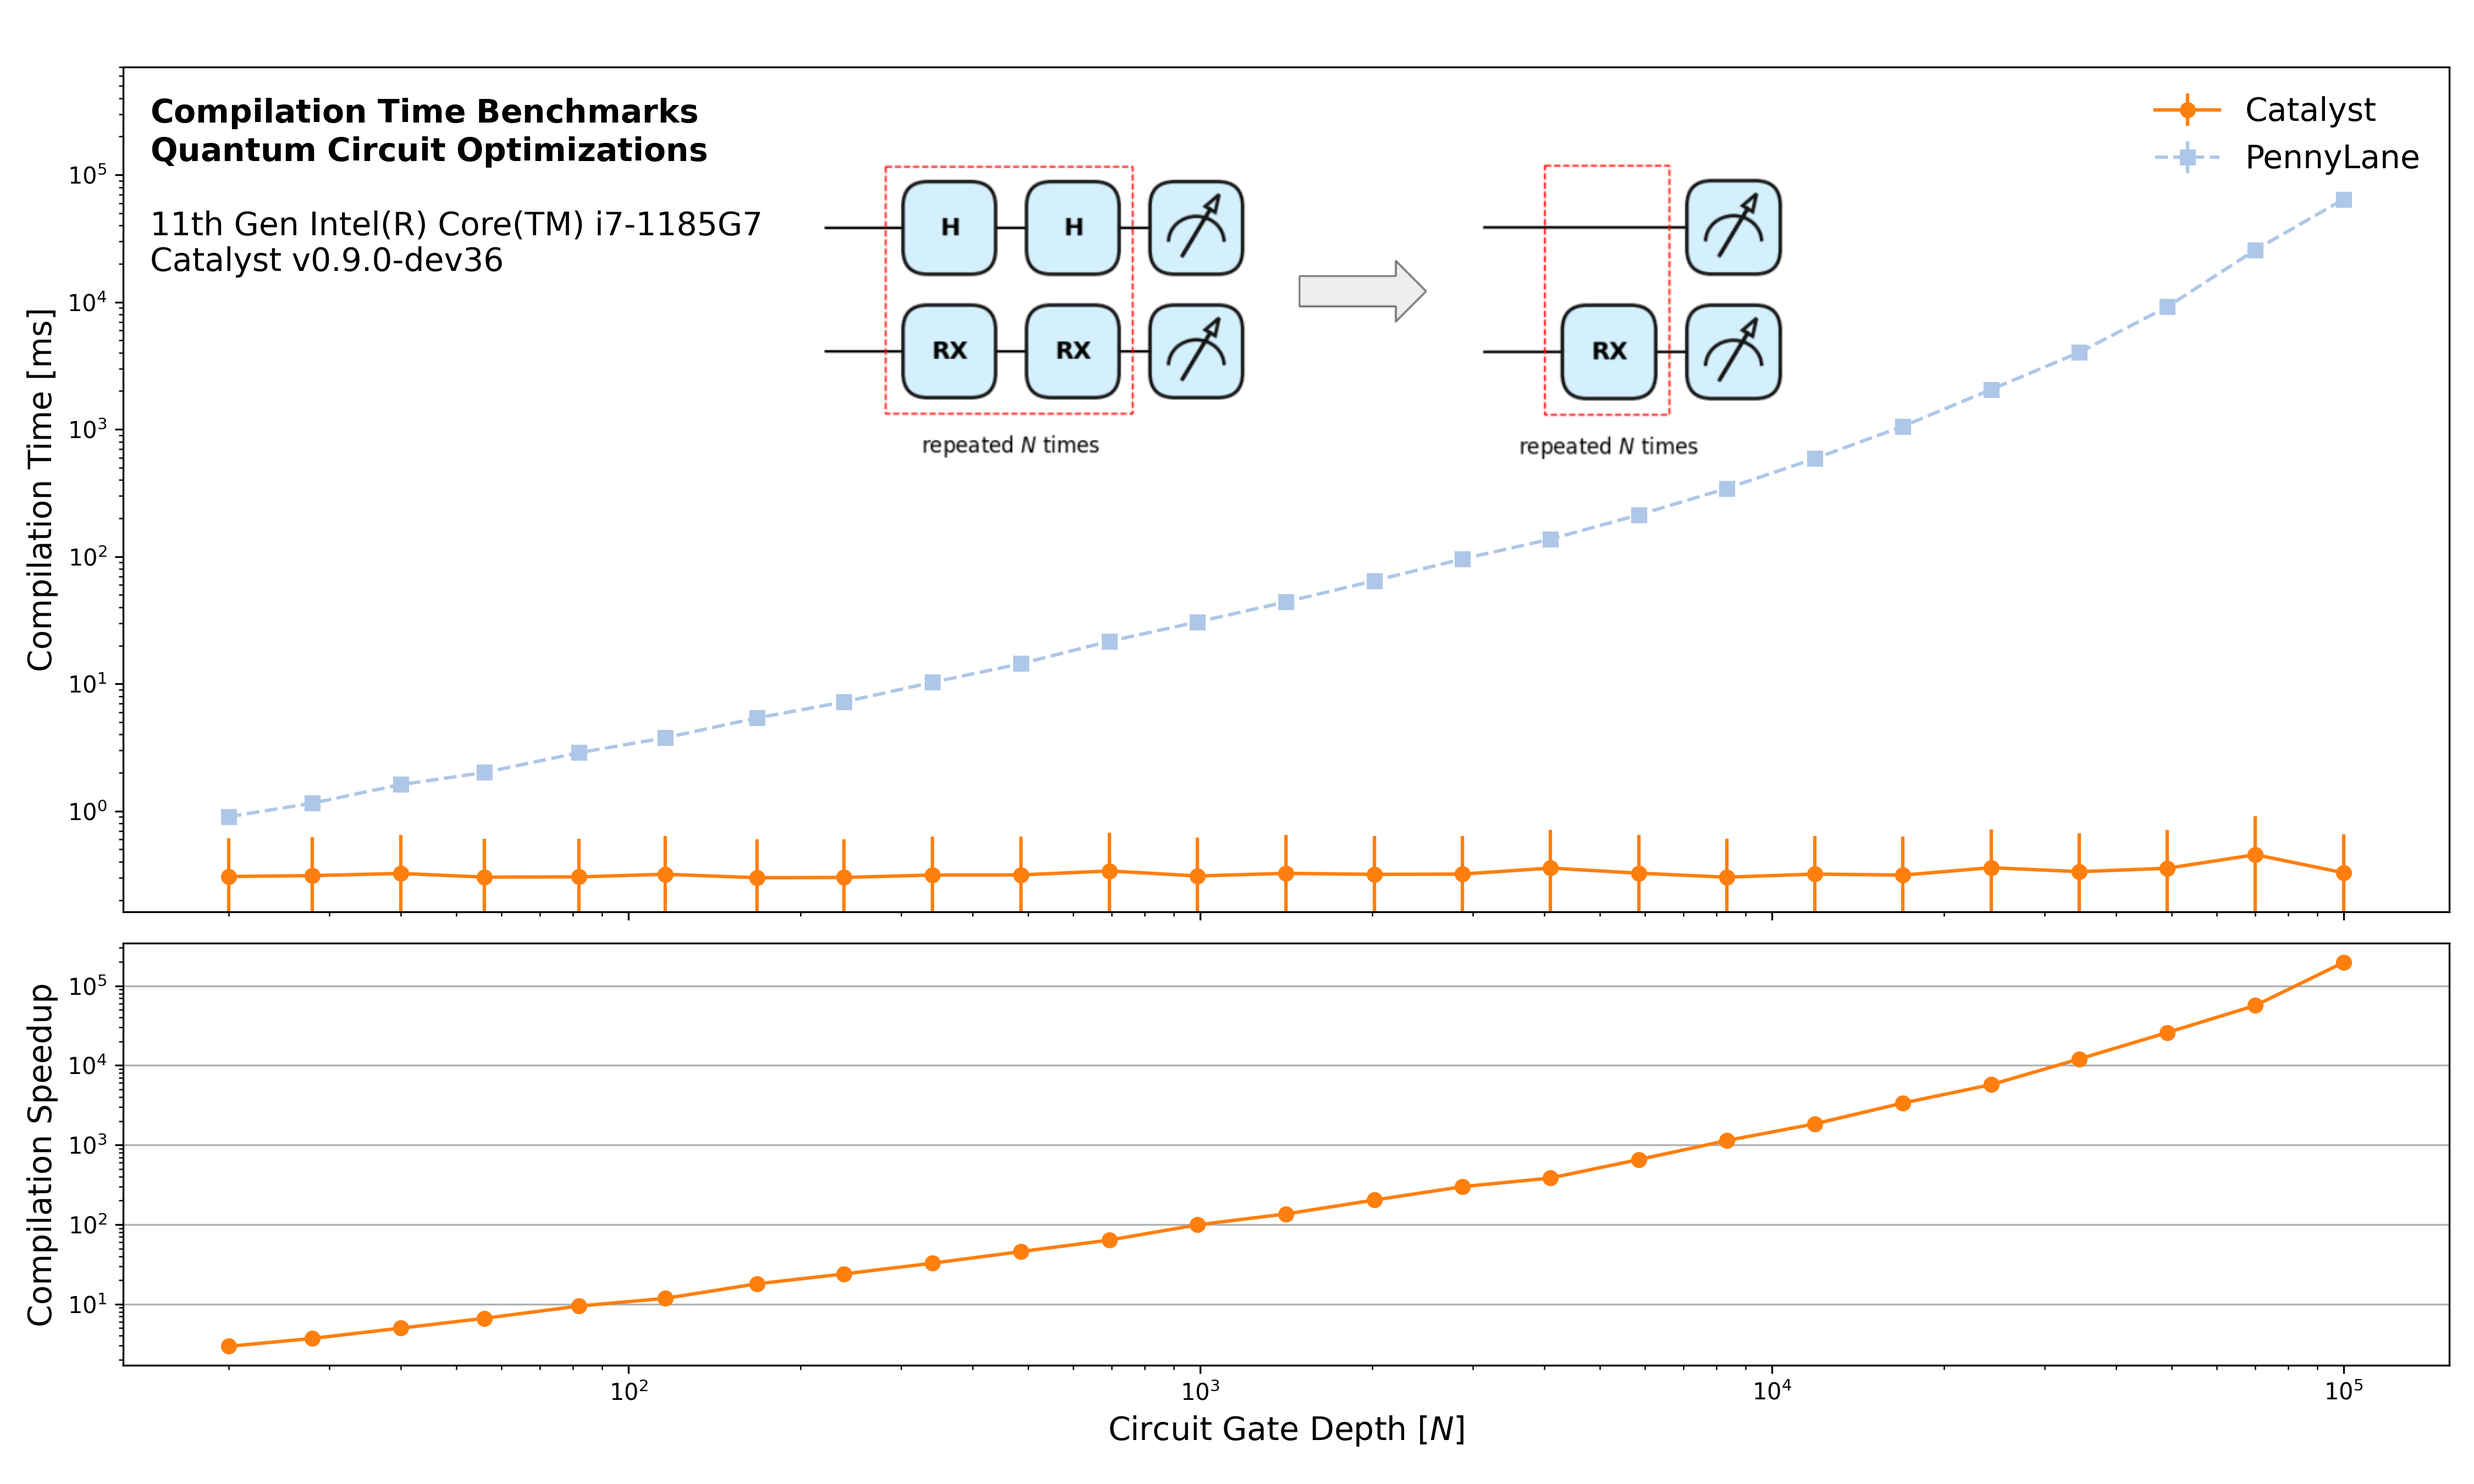
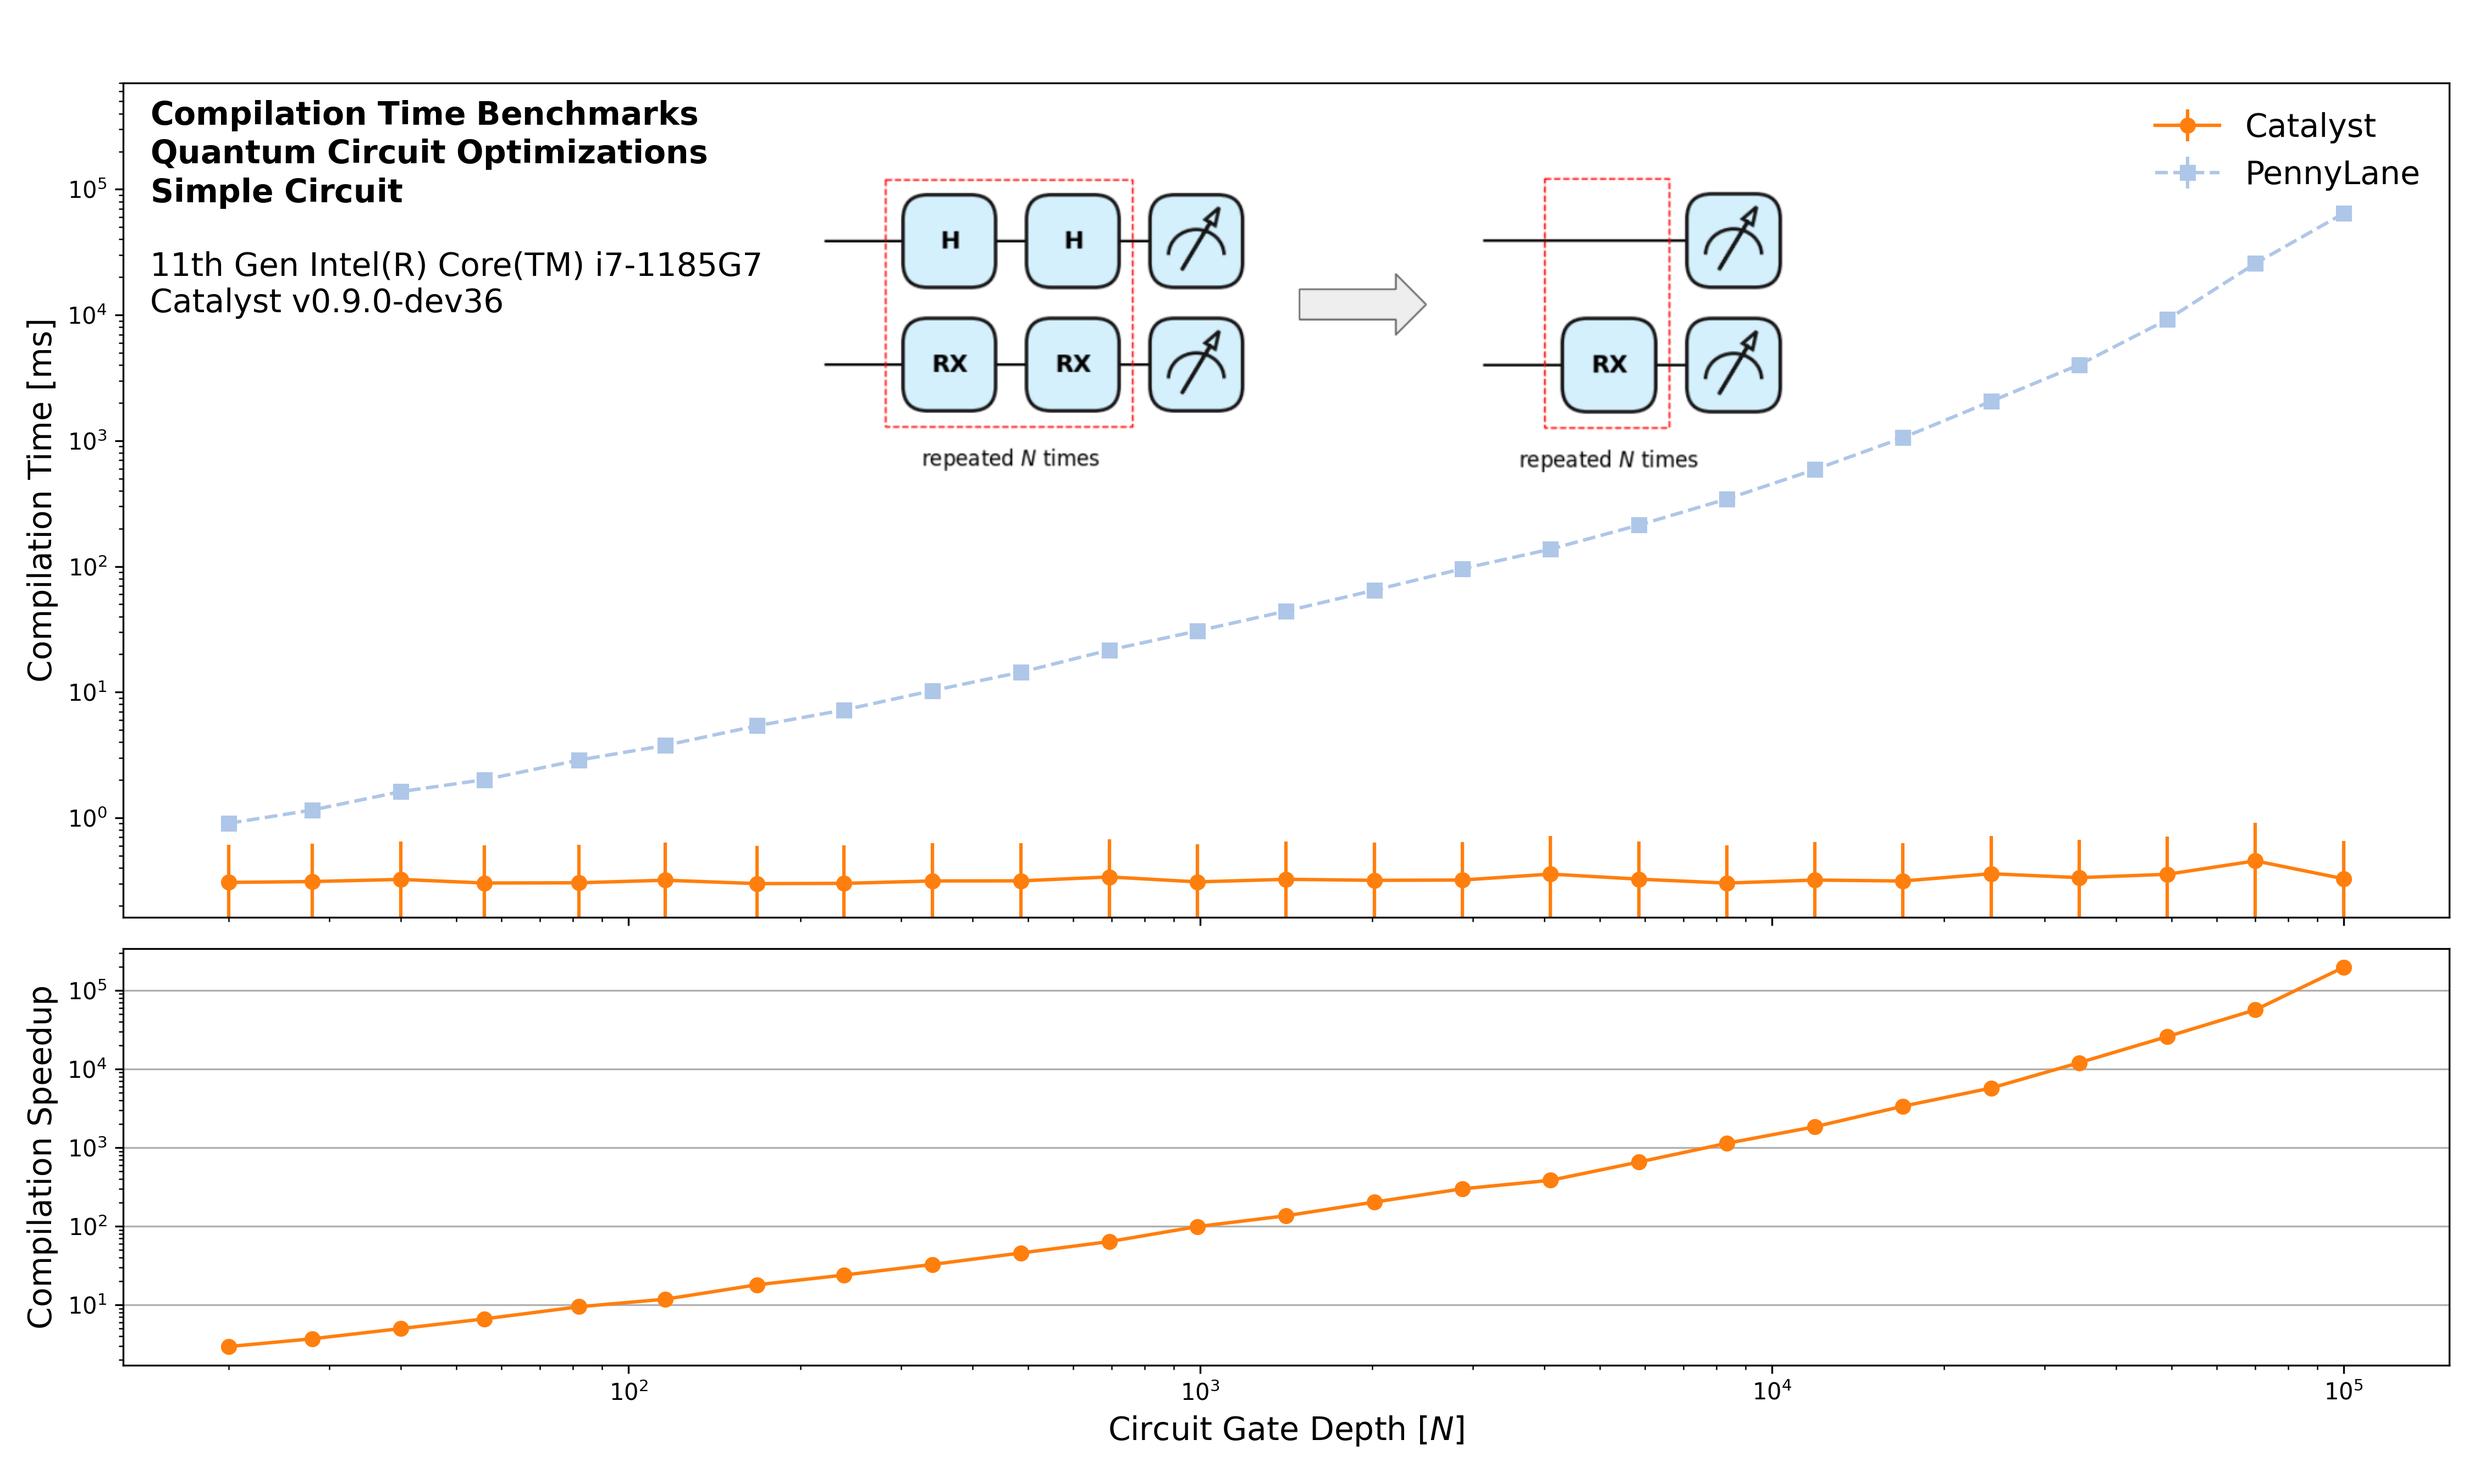
name it "simple circuit"

diff --git a/plot.py b/plot.py
@@ -68,6 +68,7 @@ text_box = TextArea(
     """
 $\mathbf{Compilation~Time~Benchmarks}$
 $\mathbf{Quantum~Circuit~Optimizations}$
+$\mathbf{Simple~Circuit}$
 
 11th Gen Intel(R) Core(TM) i7-1185G7
 Catalyst v0.9.0-dev36
@@ -76,7 +77,7 @@ Catalyst v0.9.0-dev36
 )
 ab = AnnotationBbox(
     text_box,
-    (50, 80000),
+    (50, 70000),
     frameon=False,
     bboxprops=dict(facecolor="none", edgecolor="none"),
     zorder=1,
